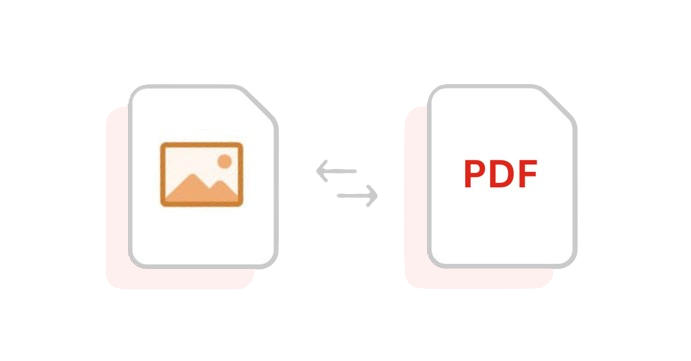
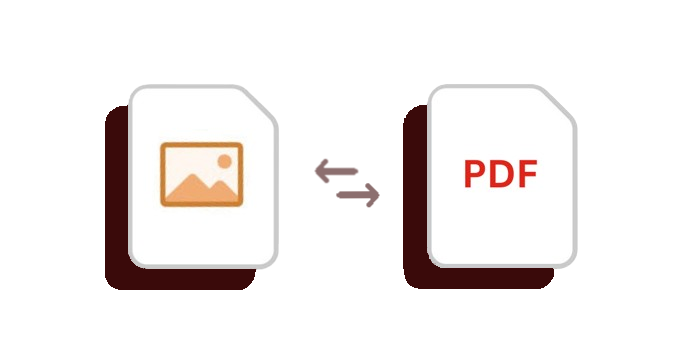
Correccion en las imagenes

diff --git a/index.html b/index.html
@@ -25,7 +25,7 @@
 
   <!-- Sección para extraer imágenes de PDF -->
   <div class="section" id="section1">
-    <img id="convertImage" src="./img/convert_light.png" class="Convertion" alt="Modo Claro">
+    <img id="convertImage" src="./img/convert_light1.png" class="Convertion" alt="Modo Claro">
     <!-- <img src="./img/convert.png" alt="./img/convert.png"> -->
     <h2>Extrae o converte tus archivos PDF</h2>
     <div id="dropZone">Arrastra y suelta una imagen o PDF aquí o haz clic para seleccionarlo</div>

diff --git a/js/dark_mode.js b/js/dark_mode.js
@@ -14,7 +14,7 @@ function updateImages(isDark) {
   const editorImage = document.getElementById('editorImage');
 
   if (convertImage) {
-    convertImage.src = isDark ? './img/convert_dark.png' : './img/convert_light.png';
+    convertImage.src = isDark ? './img/convert_light.png' : './img/convert_dark.png'; 
   }
 
   if (editorImage) {
